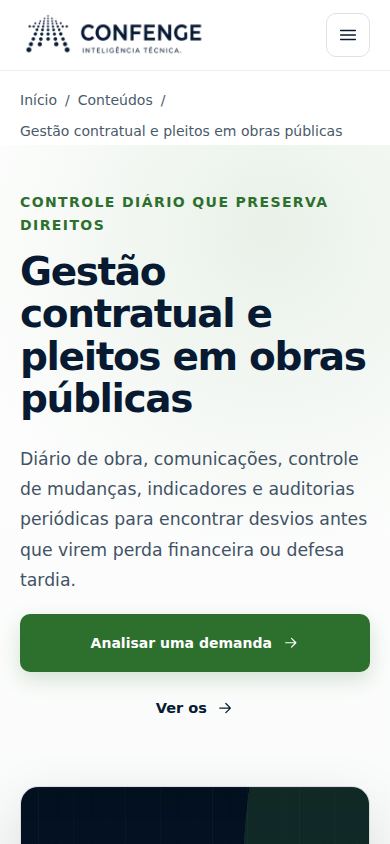
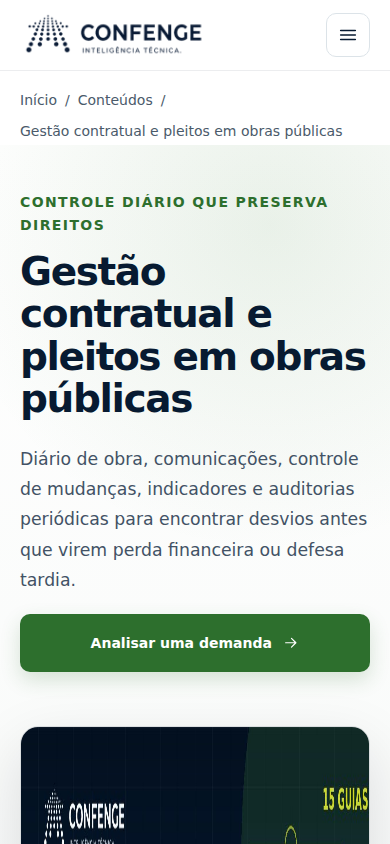
fix(uiux): remove empty-library CTAs and sections site-wide
Strip SVG-tolerant "Ver os" / #guias hero links when a theme has zero public
guides, drop empty library-section blocks on all public HTML (not only the
eight pillars), and strengthen visitor redesign gates plus recaptured empty-
pillar evidence.

Changed region(s): [[0.0308, 0.8318, 0.9538, 1.0], [0.7077, 0.9858, 0.7692, 1.0]]

diff --git a/acompanhamento-contratos-obras/index.html b/acompanhamento-contratos-obras/index.html
@@ -61,7 +61,7 @@
 <a href="/#ofertas">Serviços</a><a href="/#jornadas">Problemas que resolvemos</a><a href="/conteudos/">Conteúdos e ferramentas</a><a href="/especialista/tiago-jun-sasaki/">Especialista</a>
 <a class="button button-primary" href="/#contato">Analisar meu caso</a>
 </nav>
-</header><main id="conteudo"><nav class="breadcrumbs container" aria-label="Navegação estrutural"><ol><li><a href="/">Início</a><span aria-hidden="true">/</span></li><li><a href="/conteudos/">Conteúdos</a><span aria-hidden="true">/</span></li><li aria-current="page">Gestão contratual e pleitos em obras públicas</li></ol></nav><header class="content-hero pillar-hero"><div class="container content-hero-grid"><div><p class="eyebrow">Controle diário que preserva direitos</p><h1>Gestão contratual e pleitos em obras públicas</h1><p class="content-lead">Diário de obra, comunicações, controle de mudanças, indicadores e auditorias periódicas para encontrar desvios antes que virem perda financeira ou defesa tardia.</p><div class="hero-actions"><a class="button button-primary button-lg" href="https://wa.me/5548988344559?text=Ol%C3%A1%2C%20Tiago.%20Gostaria%20de%20analisar%20uma%20demanda%20relacionada%20a%20licita%C3%A7%C3%A3o%2C%20contrato%20ou%20obra%20p%C3%BAblica." target="_blank" rel="noopener">Analisar uma demanda <svg class="icon"><use href="#i-arrow"></use></svg></a><a class="text-link" href="#guias">Ver os  <svg class="icon"><use href="#i-arrow"></use></svg></a></div></div><figure class="article-cover"><img src="/assets/clusters/acompanhamento-contratos-obras.jpg" width="1200" height="630" alt="Gestão contratual e pleitos em obras públicas" fetchpriority="high"></figure></div></header>
+</header><main id="conteudo"><nav class="breadcrumbs container" aria-label="Navegação estrutural"><ol><li><a href="/">Início</a><span aria-hidden="true">/</span></li><li><a href="/conteudos/">Conteúdos</a><span aria-hidden="true">/</span></li><li aria-current="page">Gestão contratual e pleitos em obras públicas</li></ol></nav><header class="content-hero pillar-hero"><div class="container content-hero-grid"><div><p class="eyebrow">Controle diário que preserva direitos</p><h1>Gestão contratual e pleitos em obras públicas</h1><p class="content-lead">Diário de obra, comunicações, controle de mudanças, indicadores e auditorias periódicas para encontrar desvios antes que virem perda financeira ou defesa tardia.</p><div class="hero-actions"><a class="button button-primary button-lg" href="https://wa.me/5548988344559?text=Ol%C3%A1%2C%20Tiago.%20Gostaria%20de%20analisar%20uma%20demanda%20relacionada%20a%20licita%C3%A7%C3%A3o%2C%20contrato%20ou%20obra%20p%C3%BAblica." target="_blank" rel="noopener">Analisar uma demanda <svg class="icon"><use href="#i-arrow"></use></svg></a></div></div><figure class="article-cover"><img src="/assets/clusters/acompanhamento-contratos-obras.jpg" width="1200" height="630" alt="Gestão contratual e pleitos em obras públicas" fetchpriority="high"></figure></div></header>
 <section class="section pillar-overview"><div class="container pillar-overview-grid"><div><p class="eyebrow">Objetivo</p><h2>Crie um sistema de registros e decisões que conecte obra, contrato, caixa e direção sem depender da memória da equipe.</h2><p>A CONFENGE integra leitura de engenharia, contrato, orçamento, cronograma e registros para que a empresa não dependa de interpretações soltas. A entrega deve permitir decisão: o que aconteceu, qual é a posição da empresa, quanto está em jogo e qual ação faz sentido agora.</p></div><div class="pillar-evidence"><p class="pillar-evidence-note">Proposta técnica do tema e análise do caso concreto — ainda sem guias públicos listados neste eixo.</p></div></div></section>
 <section class="section section-soft"><div class="container two-column-content"><div><p class="eyebrow">Base documental</p><h2>O que normalmente precisa ser analisado</h2><ul class="pillar-docs"><li><svg class="icon"><use href="#i-file"></use></svg>matriz de obrigações contratuais</li><li><svg class="icon"><use href="#i-file"></use></svg>cronograma, linha de base e atualizações</li><li><svg class="icon"><use href="#i-file"></use></svg>diário de obra e relatórios diários</li><li><svg class="icon"><use href="#i-file"></use></svg>controle de mudanças, RFI e pendências</li><li><svg class="icon"><use href="#i-file"></use></svg>atas, ofícios, e-mails e ordens</li><li><svg class="icon"><use href="#i-file"></use></svg>boletins de medição e fluxo de caixa</li><li><svg class="icon"><use href="#i-file"></use></svg>registro de riscos, impactos e responsáveis</li><li><svg class="icon"><use href="#i-file"></use></svg>dashboard executivo e plano de ação</li></ul></div><div><p class="eyebrow">Riscos de abordagem</p><h2>O que costuma destruir valor</h2><ul class="error-list"><li>Registrar fatos sem data, responsável, impacto ou providência.</li><li>Usar linguagem que admite culpa ou renuncia a direitos sem intenção.</li><li>Separar o controle técnico do controle contratual e financeiro.</li><li>Deixar pleitos para o fim da obra.</li><li>Medir atividade sem acompanhar decisão, risco e caixa.</li></ul></div></div></section>
 

diff --git a/jurisprudencia-contratos-obras/index.html b/jurisprudencia-contratos-obras/index.html
@@ -66,16 +66,7 @@
 <h1>Jurisprudência aplicada a contratos de obras públicas</h1>
 <p class="content-lead">Análises operacionais de decisões relevantes para aditivos, medições, BDI, prazos e sanções — com limites do precedente e documentos necessários.</p>
 </div></header>
-<section class="section library-section"><div class="container">
-<div class="library-list"><p>Nenhum conteúdo indexável neste hub ainda.</p></div>
-<div class="lead-inline" style="margin-top:2rem" data-cta-position="hub-footer">
-<div class="lead-inline-copy"><span>Próximo passo</span><strong>Levou uma dúvida do hub para o seu contrato?</strong>
-<p>Envie o tema e os documentos principais. Retorno com enquadramento inicial.</p></div>
-<div class="lead-inline-actions">
-<a class="button button-primary" data-cta-position="hub-footer" data-cta-channel="whatsapp" href="https://wa.me/5548988344559?text=Ol%C3%A1%2C%20Tiago.%20Estou%20no%20hub%20Jurisprud%C3%AAncia%20aplicada%20a%20contratos%20de%20obras%20p%C3%BAblicas%20da%20CONFENGE%20e%20quero%20orienta%C3%A7%C3%A3o%20sobre%20contratos%20de%20obras%20p%C3%BAblicas." rel="noopener" target="_blank">Enviar pelo WhatsApp</a>
-<a class="button button-secondary" data-cta-position="hub-footer" data-cta-channel="email" href="mailto:tiago.sasaki@confenge.com.br?subject=Orienta%C3%A7%C3%A3o%3A%20Jurisprud%C3%AAncia%20aplicada%20a%20contratos%20de%20obras%20p%C3%BAblicas&amp;body=Ol%C3%A1%2C%20Tiago.%0A%0AAcessei%20/jurisprudencia-contratos-obras/%20e%20gostaria%20de%20orienta%C3%A7%C3%A3o%20sobre%20o%20tema%20do%20hub.%0A">Solicitar análise por e-mail</a>
-</div></div>
-</div></section>
+
 
 </main>
 <footer class="site-footer">

diff --git a/scripts/site/inbound_first_remediate.py b/scripts/site/inbound_first_remediate.py
@@ -1352,6 +1352,136 @@ PILLARS = (
 )
 
 
+def strip_empty_library_surface(html: str) -> str:
+    """Remove empty library sections and hero CTAs that point at empty guide lists.
+
+    SVG-tolerant: anchors often wrap an icon after the label, so we never require
+    a bare text-only match for \"Ver os N guias\".
+    """
+    # Drop entire empty library sections (no library-item articles)
+    def drop_empty_library(m: re.Match[str]) -> str:
+        block = m.group(0)
+        if re.search(r'class="[^"]*library-item', block):
+            return block
+        return ""
+
+    html = re.sub(
+        r'<section\b[^>]*\blibrary-section\b[^>]*>.*?</section>',
+        drop_empty_library,
+        html,
+        flags=re.S | re.I,
+    )
+    # Also bare class="section library-section" without word boundary quirks
+    html = re.sub(
+        r'<section class="section library-section"[^>]*>.*?</section>',
+        drop_empty_library,
+        html,
+        flags=re.S | re.I,
+    )
+
+    # Hero / inline CTAs to #guias (including SVG children)
+    html = re.sub(
+        r'<a\b[^>]*href=["\']#guias["\'][^>]*>.*?</a>',
+        "",
+        html,
+        flags=re.S | re.I,
+    )
+    # "Ver os … guias" links even without #guias or when count already stripped
+    html = re.sub(
+        r'<a\b[^>]*>\s*Ver os\b[\s\S]*?</a>',
+        "",
+        html,
+        flags=re.I,
+    )
+    # Residual text fragments left by partial rewrites
+    html = re.sub(r"\bVer os\s+\d*\s*guias?\b", "", html, flags=re.I)
+    html = re.sub(r"\bVer os\b(?=\s*<|\s*$|\s*</)", "", html, flags=re.I)
+    html = re.sub(r"\b0\s+guias?\b", "", html, flags=re.I)
+    html = re.sub(
+        r"\d+\s+guias?\s+públicos?\s+neste\s+tema",
+        "",
+        html,
+        flags=re.I,
+    )
+    # Empty evidence counters
+    html = re.sub(
+        r'<p class="pillar-evidence-count">\s*<strong>\s*0\s*</strong>\s*guias?[^<]*</p>',
+        "",
+        html,
+        flags=re.I,
+    )
+    # Prefer technical note over zero counter on evidence blocks that still claim 0
+    if re.search(r"pillar-evidence-count[\s\S]{0,80}\b0\b", html, re.I):
+        html = re.sub(
+            r'<div class="pillar-evidence">.*?</div>',
+            (
+                '<div class="pillar-evidence">'
+                '<p class="pillar-evidence-note">Proposta técnica do tema e análise do caso concreto. '
+                "Ainda sem guias públicos listados neste eixo.</p>"
+                "</div>"
+            ),
+            html,
+            count=1,
+            flags=re.S,
+        )
+    # Evidence block when pillar-stat still present with zero
+    html = re.sub(
+        r'<div class="pillar-stat">.*?</div>',
+        (
+            '<div class="pillar-evidence">'
+            '<p class="pillar-evidence-note">Proposta técnica do tema e análise do caso concreto. '
+            "Ainda sem guias públicos listados neste eixo.</p>"
+            "</div>"
+        ),
+        html,
+        count=1,
+        flags=re.S,
+    )
+    return html
+
+
+def remediate_empty_libraries_global() -> dict[str, Any]:
+    """Whole-tree public HTML scan: drop empty libraries and CTAs to empty lists."""
+    skip = {
+        "node_modules",
+        ".git",
+        "docs",
+        "scripts",
+        "data",
+        "seo",
+        "netlify",
+        "__pycache__",
+        ".well-known",
+        "_site",
+        "public",
+        "ops",
+        "private",
+        "coverage",
+        ".grok",
+    }
+    touched: list[str] = []
+    for p in sorted(ROOT.rglob("*.html")):
+        rel = p.relative_to(ROOT)
+        if any(part in skip for part in rel.parts):
+            continue
+        html = _read(p)
+        if "library-section" not in html and "#guias" not in html and "Ver os" not in html:
+            continue
+        # Count real guide cards in this page
+        n_items = len(re.findall(r'class="[^"]*library-item', html))
+        new = html
+        if n_items == 0:
+            new = strip_empty_library_surface(html)
+        else:
+            # Still purge orphaned "0 guias" claims if any
+            if re.search(r"\b0\s+guias?\b", new, re.I):
+                new = re.sub(r"\b0\s+guias?\b", "", new, flags=re.I)
+        if new != html:
+            _write(p, new)
+            touched.append(rel.as_posix())
+    return {"pages_touched": len(touched), "paths": touched}
+
+
 def remediate_pillars(brand: dict[str, Any]) -> dict[str, Any]:
     """Filter commercial pillar libraries to indexable guides only; align counts."""
     idx_map = indexable_map()
@@ -1411,53 +1541,7 @@ def remediate_pillars(brand: dict[str, Any]) -> dict[str, Any]:
 
         # When zero public guides: never publish "0 guias", empty library, or CTAs to empty lists.
         if n_kept == 0:
-            html = re.sub(
-                r'<a[^>]*>\s*Ver os\s+\d+\s+guias?\s*</a>',
-                "",
-                html,
-                flags=re.I,
-            )
-            html = re.sub(
-                r'<section class="section library-section"[^>]*>.*?</section>',
-                "",
-                html,
-                count=1,
-                flags=re.S | re.I,
-            )
-            # Evidence block: technical note only — no counter
-            html = re.sub(
-                r'<div class="pillar-stat">.*?</div>',
-                (
-                    '<div class="pillar-evidence">'
-                    '<p class="pillar-evidence-note">Proposta técnica do tema e análise do caso concreto — '
-                    "ainda sem guias públicos listados neste eixo.</p>"
-                    "</div>"
-                ),
-                html,
-                count=1,
-                flags=re.S,
-            )
-            html = re.sub(
-                r'<div class="pillar-evidence">.*?</div>',
-                (
-                    '<div class="pillar-evidence">'
-                    '<p class="pillar-evidence-note">Proposta técnica do tema e análise do caso concreto — '
-                    "ainda sem guias públicos listados neste eixo.</p>"
-                    "</div>"
-                ),
-                html,
-                count=1,
-                flags=re.S,
-            )
-            # Strip any residual zero-count claims
-            html = re.sub(r"\b0\s+guias?\b", "", html, flags=re.I)
-            html = re.sub(r"Ver os\s+0\s+guias?", "", html, flags=re.I)
-            html = re.sub(
-                r"\d+\s+guias?\s+públicos?\s+neste\s+tema",
-                "",
-                html,
-                flags=re.I,
-            )
+            html = strip_empty_library_surface(html)
             html = re.sub(
                 r'"numberOfItems"\s*:\s*\d+',
                 '"numberOfItems":0',
@@ -1918,12 +2002,14 @@ def main() -> int:
     report["pillars"] = remediate_pillars(brand)
     report["shell_other"] = remediate_editorial_and_commercial(brand)
     report["tools_shell"] = remediate_tools_shell(brand)
+    report["empty_libraries"] = remediate_empty_libraries_global()
 
     # Re-run hub + pillars after page rewrites so counts stay correct
     report["hub_pass2"] = remediate_hub(brand)
     report["pillars_pass2"] = remediate_pillars(brand)
     report["feed_pass2"] = remediate_feed()
     report["tools_shell_pass2"] = remediate_tools_shell(brand)
+    report["empty_libraries_pass2"] = remediate_empty_libraries_global()
 
     rows = build_inventory(brand)
     # After remediation, reclassify machine indexable as KEEP if clean

diff --git a/scripts/site/test_visitor_redesign.py b/scripts/site/test_visitor_redesign.py
@@ -305,12 +305,40 @@ def test_global_no_zero_or_one_guias_plural_bugs():
     for path in _public_html_files():
         text = path.read_text(encoding="utf-8", errors="replace")
         lower = text.lower()
+        n_items = len(re.findall(r'class="[^"]*library-item', text))
         for phrase in BANNED_ZERO:
             if phrase.lower() in lower:
                 failures.append(f"{path.relative_to(ROOT)}: {phrase}")
-        # also catch "Ver os 0 guias" variants with extra spaces
         if re.search(r"ver os\s+0\s+guias", lower):
             failures.append(f"{path.relative_to(ROOT)}: Ver os 0 guias (regex)")
+        # When the page has no public library cards, ban #guias / "Ver os" CTAs entirely
+        if n_items == 0:
+            if re.search(r'href=["\']#guias["\']', text, re.I):
+                failures.append(f"{path.relative_to(ROOT)}: href=#guias with zero library-item")
+            if re.search(r"\bver os\b", lower):
+                failures.append(f"{path.relative_to(ROOT)}: Ver os CTA with zero library-item")
+            # Residue after "0" strip: "Ver os" then icon/end
+            if re.search(r">\s*ver os\s*<", lower):
+                failures.append(f"{path.relative_to(ROOT)}: orphan Ver os fragment")
+    assert not failures, failures[:30]
+
+
+def test_global_no_empty_library_sections():
+    """Any library-section in public HTML must contain ≥1 library-item."""
+    failures: list[str] = []
+    for path in _public_html_files():
+        text = path.read_text(encoding="utf-8", errors="replace")
+        for m in re.finditer(
+            r'<section\b[^>]*\blibrary-section\b[^>]*>.*?</section>',
+            text,
+            flags=re.S | re.I,
+        ):
+            block = m.group(0)
+            if not re.search(r'class="[^"]*library-item', block):
+                failures.append(f"{path.relative_to(ROOT)}: empty library-section")
+        # empty-state copy for libraries is also banned
+        if re.search(r"nenhum conteúdo indexável", text, re.I):
+            failures.append(f"{path.relative_to(ROOT)}: empty library copy")
     assert not failures, failures[:30]
 
 
@@ -319,18 +347,39 @@ def test_empty_pillar_no_library_or_counter():
     assert pillar.exists()
     html = pillar.read_text(encoding="utf-8")
     assert "0 guias" not in html.lower()
-    assert "guias públicos neste tema" not in html.lower() or "0" not in re.findall(
-        r"(\d+)\s+guias?\s+públicos", html.lower()
-    )
-    # no empty library section
-    if 'class="section library-section"' in html:
-        # if present must contain at least one library-item
-        assert "library-item" in html
-    # no CTA to empty list
-    assert not re.search(r"Ver os\s+0\s+guias", html, re.I)
+    assert not re.search(r"\b0\s+guias?\b", html, re.I)
+    # no library section at all when empty
+    assert "library-section" not in html
+    assert "library-item" not in html
+    # no CTA to empty list — SVG-tolerant
+    assert not re.search(r'href=["\']#guias["\']', html, re.I)
+    assert not re.search(r"Ver os\b", html, re.I)
     # still presents technical theme + case action
     assert "Gestão contratual" in html or "gestão contratual" in html.lower()
     assert "Analisar meu caso" in html or "wa.me" in html or "/#contato" in html
+
+
+def test_strip_empty_library_generator_unit():
+    """Drive the shipped strip helper (not a reimplementation)."""
+    from scripts.site.inbound_first_remediate import strip_empty_library_surface
+
+    sample = (
+        '<div class="hero-actions">'
+        '<a class="button button-primary" href="/#contato">Analisar</a>'
+        '<a class="text-link" href="#guias">Ver os <svg class="icon"></svg></a>'
+        "</div>"
+        '<section class="section library-section" id="guias">'
+        "<div class=\"container\"><p>Nenhum conteúdo indexável neste hub ainda</p></div>"
+        "</section>"
+        '<p class="pillar-evidence-count"><strong>0</strong> guias públicos neste tema</p>'
+    )
+    out = strip_empty_library_surface(sample)
+    assert "#guias" not in out
+    assert "Ver os" not in out
+    assert "library-section" not in out
+    assert "0 guias" not in out.lower()
+    assert "Nenhum conteúdo" not in out
+    assert "Analisar" in out
 
 
 def test_public_taxonomy_jargon_absent():

diff --git a/docs/uiux-visitor-redesign/BEFORE-AFTER.md b/docs/uiux-visitor-redesign/BEFORE-AFTER.md
@@ -72,8 +72,9 @@ Evidência: `hub-filter-durante-1440x900.png`, `hub-search-filter-1440x900.png`.
 | Antes | Depois | Por quê |
 |---|---|---|
 | “0 guias públicos neste tema” + biblioteca vazia | Sem contador, sem CTA para lista vazia, sem seção de biblioteca; nota técnica + ação de caso | Não publicar inventário vazio |
+| Hero com `Ver os →` apontando a `#guias` mesmo com lista vazia (SVG no anchor) | Remoção do anchor inteiro (SVG-tolerante) + seções `library-section` sem `library-item` em qualquer HTML público | CTA quebrado e biblioteca vazia são proibidos |
 
-Evidência: `pillar-empty-1440x900.png` (`/acompanhamento-contratos-obras/`). Gate global varre HTML público (não lista fixa de 4 arquivos).
+Evidência: `pillar-empty-1440x900.png` / `pillar-empty-390x844.png` (`/acompanhamento-contratos-obras/`, sem “Ver os”). Gate global `remediate_empty_libraries_global` + testes de `library-section` sem item e de `href=#guias` com zero cards.
 
 ## Checklist — mapa semântico por `item_id`
 
